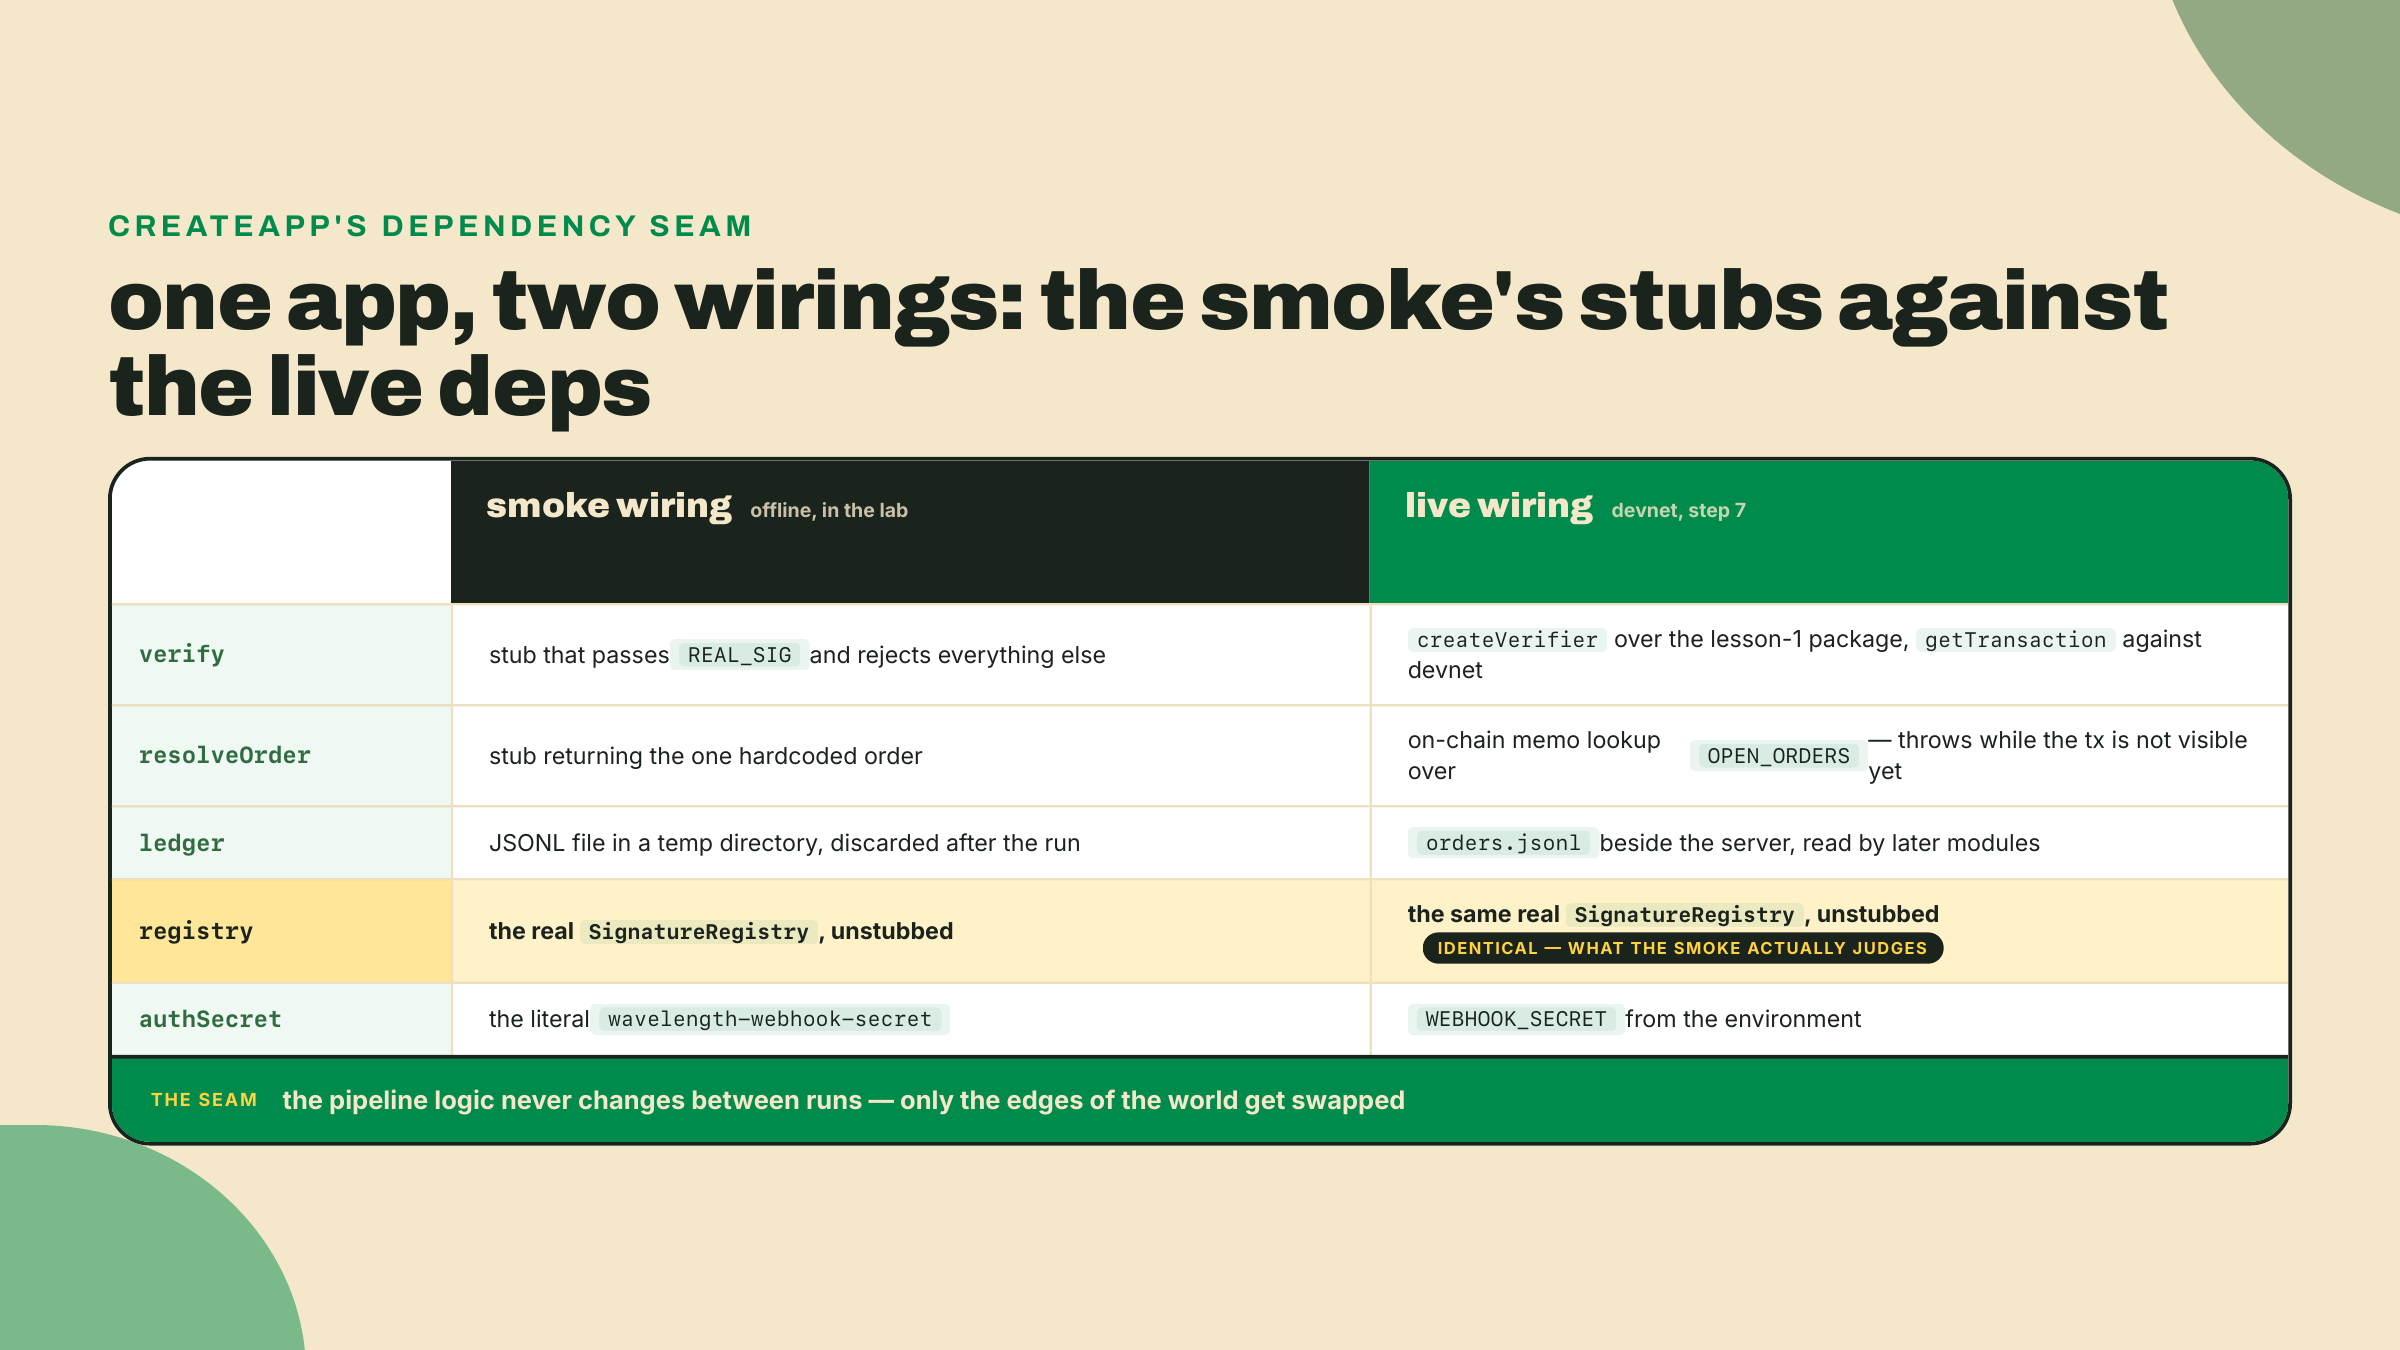
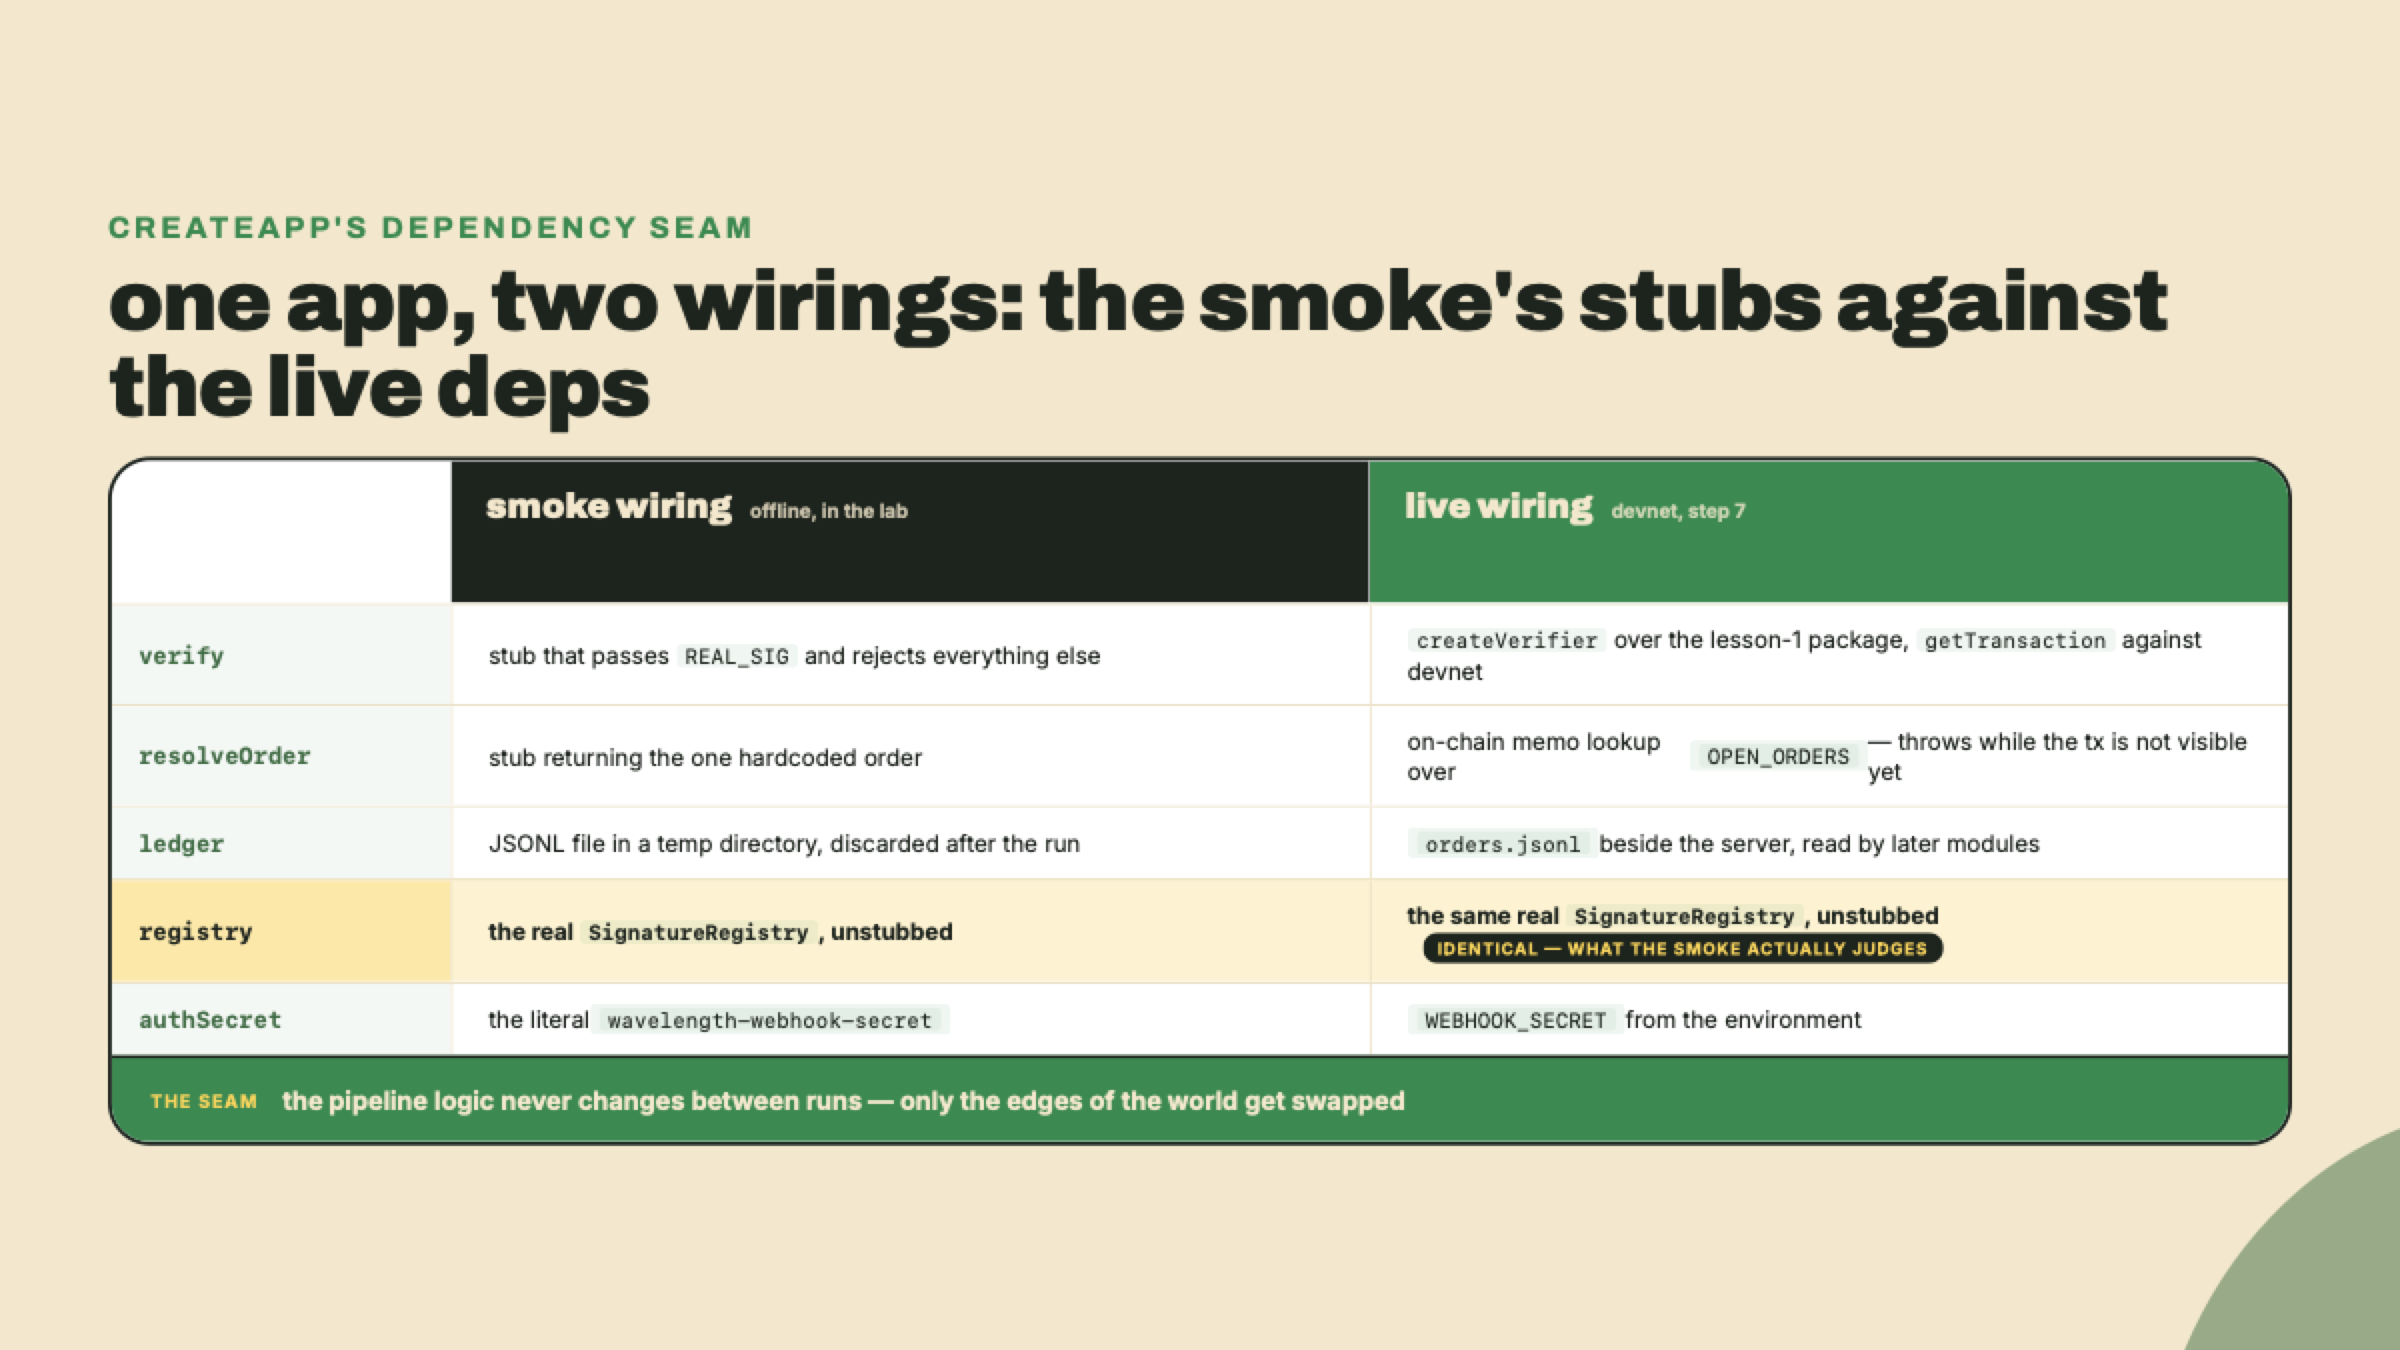
fix(visuals): flex containers were eating the spaces around <b>
Figures shipped words jammed together: "in a separateProgramDataaccount",
"in thesameaccount", "the contract writes itsownstorage". The audit read
this as a renderer bug and said to fix the pipeline. It is neither.

When a container is display:flex, each run of text between its children
becomes an anonymous flex item, and the flexbox spec discards whitespace
between items -- so `.cell { display:flex }` around
`in a separate <b>ProgramData</b> account` is three items and both spaces
are dropped. Browsers do the same.

Verified with a three-case render before editing: flex collapses, block
does not, flex with the content wrapped in one span does not. Wrapping is
the fix used here; switching to block would lose the align-items:center
these cells rely on inside a stretched row.

Figures re-rendered from the corrected sources.

diff --git a/courses/solana-payments-commerce/visual-src/m04-l2/v08-comparison.html b/courses/solana-payments-commerce/visual-src/m04-l2/v08-comparison.html
@@ -69,7 +69,7 @@
     </div>
     <div class="cmp-row">
       <div class="ax">verify</div>
-      <div class="cell smoke">stub that passes <code>REAL_SIG</code> and rejects everything else</div>
+      <div class="cell smoke"><span>stub that passes <code>REAL_SIG</code> and rejects everything else</span></div>
       <div class="cell"><span><code>createVerifier</code> over the lesson-1 package, <code>getTransaction</code> against devnet</span></div>
     </div>
     <div class="cmp-row">
